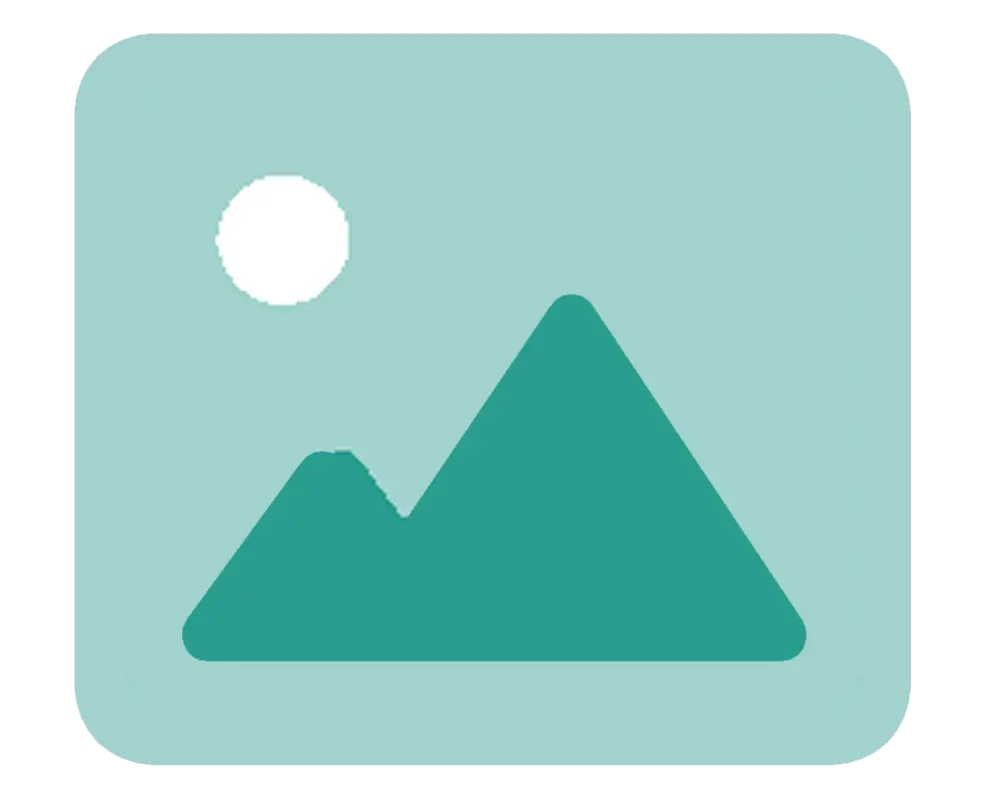
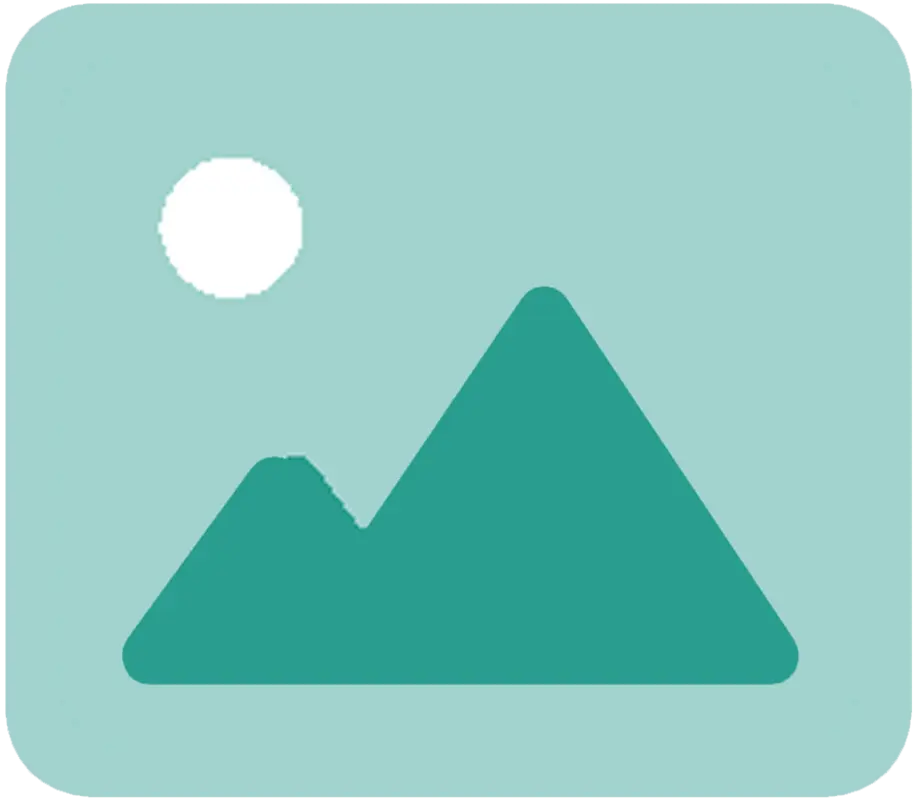
feat: Add Steps Section; fix: Change Data from func to array, crop image steps/input

diff --git a/src/data/homeData.js b/src/data/homeData.js
@@ -17,33 +17,33 @@ const about = {
 const steps =
 {
   title: 'Bagaimana cara menggunakannya?',
-  stepsBody: () => ([
+  stepsBody: [
     {
       id: 0,
       title: 'Pilih Gambar',
-      desc: 'Pilih gambar sampah yang ingin diklasifikasikan',
+      desc: 'Pilih gambar sampah yang ingin diklasifikasikan.',
       image: '/img/steps/input.webp',
     },
     {
       id: 1,
       title: 'Klasifikasikan',
-      desc: 'Model Machine Learning akan mengklasifikasikan sampah yang dipilih berdasarkan 12 jenis sampah',
-      image: '/img/steps/clasify.webp',
+      desc: 'Model Machine Learning akan mengklasifikasikan sampah yang dipilih berdasarkan 12 jenis sampah.',
+      image: '/img/steps/classify.webp',
     },
     {
       id: 2,
       title: 'Hasil Klasifikasi',
-      desc: 'Hasil klasifikasi akan ditampilkan berupa jenis dan kategori sampah, serta persentase kecocokan',
+      desc: 'Hasil klasifikasi akan ditampilkan berupa jenis dan kategori sampah, serta persentase kecocokan.',
       image: '/img/steps/result.webp',
     }
-  ])
+  ]
 };
 
 const featured = 
 {
   title: 'Keunggulan Aplikasi',
   subtitle: 'Aplikasi ini memiliki beberapa fitur yang dapat membantu pengguna dalam mengklasifikasikan sampah',
-  features: () => ([
+  features: [
     {
       id: 0,
       title: 'Klasifikasi 12 Jenis Sampah',
@@ -62,7 +62,7 @@ const featured =
       desc: 'Aplikasi ini mengintegrasikan model Machine Learning secara End-to-End sehingga pengguna tidak perlu menginstall Python dan menjalankan model Machine Learning pada Kode Notebook Python.',
       image: '/img/featured/end-to-end.webp',
     },
-  ])
+  ]
 };
 
 const footer =

diff --git a/src/components/aboutSection/About.js b/src/components/aboutSection/About.js
@@ -3,21 +3,21 @@ import { about } from '../../data/homeData';
 export default function About() {
   return (
     <section id="about" className="pt-36">
-    <div className="container">
-      <div className="flex flex-wrap justify-center">
-        <h2 className="text-2xl text-dark font-bold text-center w-full mb-6 md:text-3xl lg:text-5xl">
-          {about.title}
-        </h2>
-        <img
-          src={about.image}
-          alt="about illustration"
-          className="w-full lg:w-[75%]"
-        />
-        <p className="w-full text-dark font-medium text-center mb-10 lg:leading-relaxed lg:w-2/3 lg:text-lg">
-          {about.desc}
-        </p>
+      <div className="container">
+        <div className="flex flex-wrap justify-center">
+          <h2 className="text-2xl text-dark font-bold text-center w-full mb-6 md:text-3xl lg:text-5xl">
+            {about.title}
+          </h2>
+          <img
+            src={about.image}
+            alt="about illustration"
+            className="w-full lg:w-[75%]"
+          />
+          <p className="w-full text-dark font-medium text-center mb-10 lg:leading-relaxed lg:w-2/3 lg:text-lg">
+            {about.desc}
+          </p>
+        </div>
       </div>
-    </div>
-  </section>
+    </section>
   );
 }

diff --git a/src/data/acknowledgmentData.js b/src/data/acknowledgmentData.js
@@ -9,7 +9,7 @@ const hero =
 const contributors =
 {
   title: 'Kontributor',
-  developers: () => ([
+  developers: [
     {
       id: 0,
       name: 'Virgiawan Teguh Kusuma',
@@ -32,14 +32,14 @@ const contributors =
         github: 'https://github.com/tnnz20'
       }
     }
-  ])
+  ]
 };
 
 const techStack =
 {
   title: 'Teknologi yang Digunakan',
   desc: 'Aplikasi ini buat dengan menggunakan beberapa teknologi yang dapat membantu dalam proses pembuatan',
-  techs: () => ([
+  techs: [
     {
       id: 0,
       name: 'Python',
@@ -145,14 +145,14 @@ const techStack =
       image: '/img/techstack/figma.webp',
       url: 'https://www.figma.com/'
     },
-  ])
+  ]
 };
 
 const credits =
 {
   title : 'Sumber Daya Lainnya',
   desc: 'Beberapa sumber daya lainnya yang dapat membantu dalam pembuatan aplikasi ini.',
-  resources: ()=> ([
+  resources: [
     {
       title: 'Datasets',
       text: 'Kaggle Garbage Classification (12 classes)',
@@ -178,7 +178,7 @@ const credits =
       text: 'Icons8',
       url: 'https://icons8.com/illustrations',
     },
-  ])
+  ]
 }
 
 export { hero, contributors, techStack, credits };

diff --git a/src/components/stepsSection/StepBody.js b/src/components/stepsSection/StepBody.js
@@ -1,0 +1,22 @@
+export default function StepBody({ step }) {
+
+  return (
+    <div className="w-full md:w-1/2 lg:w-1/3 px-4 md:px-9">
+      <div className="flex flex-wrap justify-between">
+        <img
+          className="w-2/3 object-scale-down px-6 md:px-7 md:w-auto md:h-[160px]"
+          src={step.image}
+          alt={step.title}
+        />
+        <div className="w-full mt-2 lg:mt-6">
+          <h3 className="text-xl font-bold text-dark mb-2 md:text-2xl">
+            <span className="font-medium pr-2">{step.id+1}.</span>{step.title}
+          </h3>
+          <p className="font-medium text-dark px-[26px] md:px-7">
+            {step.desc}
+          </p>
+        </div>   
+      </div>    
+    </div>    
+  );
+}

diff --git a/src/components/stepsSection/Steps.js b/src/components/stepsSection/Steps.js
@@ -1,0 +1,23 @@
+import { steps } from '../../data/homeData';
+import StepBody from './StepBody';
+
+export default function Steps() {
+  return (
+    <section id="steps" className="py-20">
+      <div className="container">
+        <h2 className="text-2xl text-dark font-bold text-center w-full mb-8 md:mb-16 md:text-3xl lg:text-5xl">
+          {steps.title}
+        </h2>
+        <div
+          className="flex flex-wrap gap-y-12 lg:gap-y-2"
+        >
+          {
+            steps.stepsBody.map((step, index) => (
+              <StepBody step={step} key={index} />
+            ))
+          }
+        </div>
+      </div>
+    </section>
+  );
+}

diff --git a/src/pages/Home.js b/src/pages/Home.js
@@ -1,12 +1,14 @@
 import Layout from '../components/Layout';
 import Hero from '../components/hero/Hero';
 import About from '../components/aboutSection/About';
+import Steps from '../components/stepsSection/Steps';
 
 export default function Home() {
   return (
     <Layout>
       <Hero />
       <About />
+      <Steps />
     </Layout>
   );
 }
